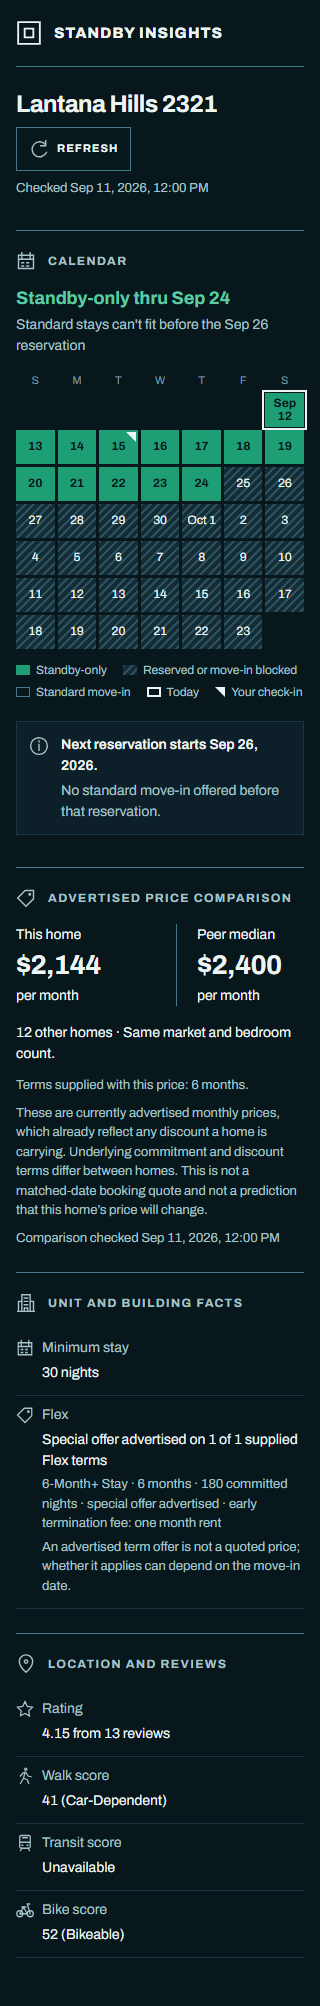
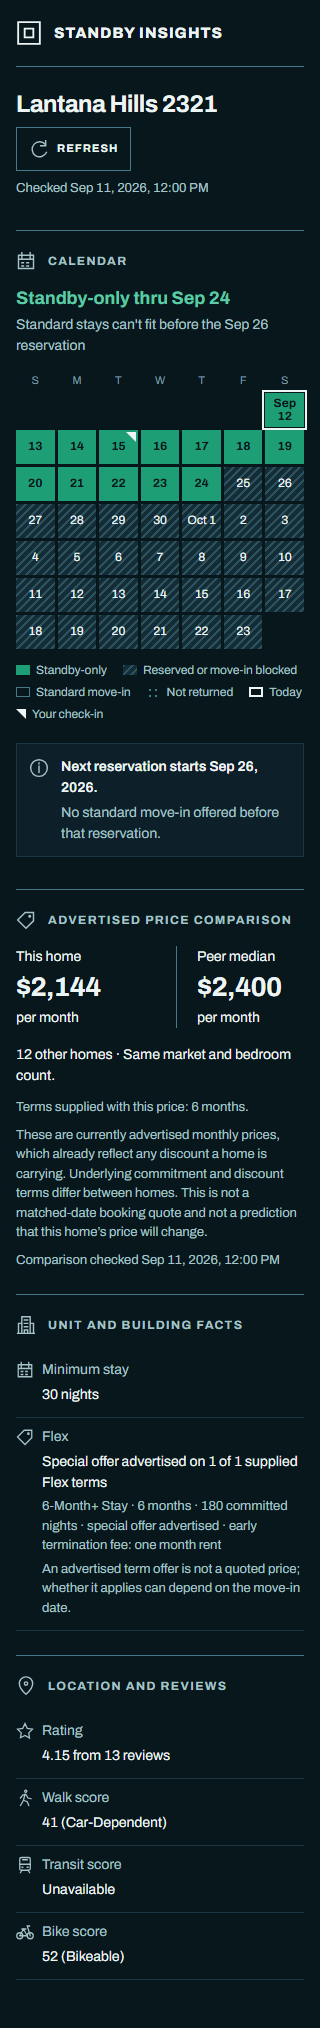
Make missing, stale, and qualified evidence look as uncertain as it is (#31)
* Make missing, stale, and qualified evidence look as uncertain as it is

Not-returned days get a dot texture and a legend key on the panel grid and
card strip instead of reading as ordinary days. Evidence from an older check
says so in the headline on both surfaces, with the card's older-check note
directly under it. The date-disagreement reference note now precedes the
six-week headline and grid it qualifies.

Closes #22

* Keep the headline plain and state an older check under it

The headline prefix read as clutter. The card now states
"Older check · checked {time}" directly under the headline, before the
strip; the panel keeps its check-time label above the calendar.

Refs #22

---------

Changed region(s): [[0.0312, 0.0, 0.9688, 0.989], [0.4375, 0.0309, 0.6562, 0.0618], [0.0625, 0.8036, 0.125, 0.9581]]

diff --git a/src/panel/panel.css b/src/panel/panel.css
@@ -19,6 +19,7 @@
   --standby-only: #1d9e75;
   --standby-only-text: #5dcaa5;
   --hatch: repeating-linear-gradient(135deg, #2c5260 0 2px, var(--ink-3) 2px 6px);
+  --dots: radial-gradient(circle, #2c5260 1px, transparent 1.5px) 0 0 / 6px 6px;
   --space-1: 4px;
   --space-2: 8px;
   --space-3: 12px;
@@ -124,7 +125,8 @@ h2 {
 #calendar-grid [data-kind="standby-only"], .grid-legend [data-kind="standby-only"] { background: var(--standby-only); color: var(--ink); font-weight: 700; }
 #calendar-grid [data-kind="reserved"], #calendar-grid [data-kind="blocked"], .grid-legend [data-kind="reserved"] { background: var(--hatch); color: var(--on); }
 #calendar-grid [data-kind="move-in"], .grid-legend [data-kind="move-in"] { box-shadow: inset 0 0 0 1px var(--rule-strong); }
-#calendar-grid [data-kind="not-returned"] { color: var(--on-3); }
+/* Missing days are drawn as missing, so they never pass for ordinary open ones. */
+#calendar-grid [data-kind="not-returned"], .grid-legend [data-kind="not-returned"] { background: var(--dots); color: var(--on-3); }
 #calendar-grid .today { outline: 2px solid var(--on); outline-offset: 1px; }
 #calendar-grid .check-in { position: relative; }
 #calendar-grid .check-in::after { content: ""; position: absolute; top: 2px; right: 2px; border: 5px solid transparent; border-top-color: var(--on); border-right-color: var(--on); }
@@ -134,6 +136,7 @@ h2 {
 .grid-legend .today-key { outline: 2px solid var(--on); outline-offset: -2px; }
 .grid-legend .check-in-key { border: 5px solid transparent; border-top-color: var(--on); border-right-color: var(--on); width: 0; height: 0; }
 #reference-note { color: var(--on-2); }
+#reference-note:not(:empty) { margin-bottom: var(--space-4); }
 #calendar-status:not(:empty) { margin-bottom: var(--space-3); }
 .summary {
   display: flex;

diff --git a/test/panel-markup.test.js b/test/panel-markup.test.js
@@ -1,0 +1,33 @@
+import { test } from 'node:test';
+import assert from 'node:assert/strict';
+import { readFile } from 'node:fs/promises';
+
+const read = (path) => readFile(new URL(`../${path}`, import.meta.url), 'utf8');
+
+// A rule for a kind whose declarations are only `transparent` or a text colour
+// would leave missing days looking like ordinary ones.
+function declarationsFor(css, selector) {
+  return [...css.replace(/\/\*[\s\S]*?\*\//g, '').matchAll(/([^{}]+)\{([^}]*)\}/g)]
+    .filter(([, selectors]) => selectors.split(',').some((s) => s.trim() === selector))
+    .map(([, , body]) => body)
+    .join(';');
+}
+
+test('the reference note precedes the six-week headline and grid it qualifies', async () => {
+  const html = await read('src/panel/panel.html');
+  assert(html.indexOf('id="reference-note"') < html.indexOf('id="six-weeks"'));
+});
+
+test('the panel legend keys not-returned days', async () => {
+  const html = await read('src/panel/panel.html');
+  assert.match(html, /<li><i data-kind="not-returned"><\/i>Not returned<\/li>/);
+});
+
+test('not-returned days are drawn, not left blank, on both surfaces', async () => {
+  const panel = declarationsFor(await read('src/panel/panel.css'), '#calendar-grid [data-kind="not-returned"]');
+  const card = declarationsFor(await read('src/content/card-annotations.css'), '.standby-strip-segment[data-kind="not-returned"]');
+  for (const body of [panel, card]) {
+    assert.match(body, /background:\s*(?!transparent)\S/, 'a missing day needs its own mark');
+    assert.doesNotMatch(body, /box-shadow/, 'an outline would read as standard move-in');
+  }
+});

diff --git a/test/card-view.test.js b/test/card-view.test.js
@@ -134,7 +134,7 @@ test('retained evidence being rechecked is marked an older check, in words not c
     referenceDate: REFERENCE,
     today: REFERENCE,
   });
-  assert.match(view.noteText, /older check/);
+  assert.match(view.noteText, /older check/i);
 });
 
 // ADR 1: there is always a reference date. A card names it without a
@@ -145,4 +145,19 @@ test('a card whose page and address disagree marks no check-in', () => {
   });
   assert.equal(view.strip.checkInIndex, null);
   assert.equal(view.headlineText, 'No standby-only window detected');
+});
+
+test('an older check leaves the headline plain and names its check time in the note', () => {
+  const calendar = deriveCalendarEvidence(validClosedCalendarHome);
+  const base = {
+    summary: summarizeForReference(calendar.ranges, REFERENCE),
+    referenceDate: REFERENCE,
+    today: REFERENCE,
+  };
+  const evidence = { status: 'ready', identity: 'confirmed', ranges: calendar.ranges, isChecking: false, checkedAt: 1000 };
+  const fresh = describeCard({ ...base, evidence: { ...evidence, isStale: false } });
+  const stale = describeCard({ ...base, evidence: { ...evidence, isStale: true } });
+  assert.equal(stale.headlineText, fresh.headlineText);
+  assert.equal(fresh.noteText, '');
+  assert.match(stale.noteText, /^Older check · checked [A-Z][a-z]{2} \d{1,2}, \d{1,2}:\d{2}\s[AP]M$/);
 });

diff --git a/src/content/card-view.js b/src/content/card-view.js
@@ -1,6 +1,7 @@
 import { sixWeekView, describeStandbyOnly } from '../lib/six-week-view.js';
 
 const dateFormatter = new Intl.DateTimeFormat('en-US', { month: 'short', day: 'numeric', year: 'numeric', timeZone: 'UTC' });
+const checkTimeFormatter = new Intl.DateTimeFormat('en-US', { month: 'short', day: 'numeric', hour: 'numeric', minute: '2-digit' });
 
 function formatDate(isoDate) {
   return dateFormatter.format(new Date(`${isoDate}T00:00:00Z`));
@@ -42,7 +43,13 @@ export function describeCard({ evidence, summary, referenceDate, today, checkIn 
     return { ...view, readable: false };
   }
 
-  if (evidence.isStale) view.noteText = 'Showing an older check';
+  // Sits directly under the headline, so the words and the time of the check
+  // are read before the strip, not after it.
+  if (evidence.isStale) {
+    view.noteText = evidence.checkedAt === null
+      ? 'Older check'
+      : `Older check · checked ${checkTimeFormatter.format(new Date(evidence.checkedAt))}`;
+  }
 
   // Neither of these is a claim about the unit, so they are kept out of the
   // lines that carry one.

diff --git a/test/panel-render.test.js b/test/panel-render.test.js
@@ -253,3 +253,18 @@ test('the grid marks no check-in when the date is only the check date', () => {
   });
   assert.equal(view.grid.cells.some((cell) => cell.isCheckIn), false);
 });
+
+test('an older check leaves the six-week headline plain, and not-returned days are their own kind', () => {
+  const state = {
+    status: 'ready', identity: 'confirmed', unitName: null, checkedAt: 1000, isChecking: false, error: null,
+    today: '2026-09-11', referenceDate: '2026-09-11', checkIn: { status: 'none', date: null },
+    ranges: [{ startDate: '2026-09-11', endDate: '2026-09-20', moveInAllowed: true, isReservation: false, unbookableReason: null }],
+  };
+  const fresh = describeState({ ...state, isStale: false });
+  const stale = describeState({ ...state, isStale: true });
+  assert.equal(stale.standbyOnly.headline, fresh.standbyOnly.headline);
+  assert.match(stale.checkTimeText, /older check/i);
+  const missing = fresh.grid.cells[10];
+  assert.equal(missing.kind, 'not-returned');
+  assert.equal(missing.title, 'Not in the returned calendar');
+});

diff --git a/src/panel/panel.html b/src/panel/panel.html
@@ -26,6 +26,7 @@
     <section id="calendar-section" aria-labelledby="calendar-heading">
       <h2 id="calendar-heading"><svg class="icon" aria-hidden="true"><use href="icons.svg#calendar" /></svg>Calendar</h2>
       <p id="calendar-status" role="status"></p>
+      <p id="reference-note"></p>
       <div id="six-weeks" hidden>
         <p id="standby-only-headline"></p>
         <p id="standby-only-detail"></p>
@@ -35,11 +36,11 @@
           <li><i data-kind="standby-only"></i>Standby-only</li>
           <li><i data-kind="reserved"></i>Reserved or move-in blocked</li>
           <li><i data-kind="move-in"></i>Standard move-in</li>
+          <li><i data-kind="not-returned"></i>Not returned</li>
           <li><i class="today-key"></i>Today</li>
           <li><i class="check-in-key"></i>Your check-in</li>
         </ul>
       </div>
-      <p id="reference-note"></p>
       <div id="calendar-summary" class="summary" hidden>
         <svg class="icon" aria-hidden="true"><use href="icons.svg#info" /></svg>
         <ul id="summary-list"></ul>

diff --git a/src/content/card-annotations.css b/src/content/card-annotations.css
@@ -43,7 +43,7 @@
   forced-color-adjust: none;
 }
 .standby-evidence-line { color: #5d686b; margin-top: 1px; }
-.standby-evidence-note { color: #5d686b; font-style: italic; margin-top: 4px; }
+.standby-evidence-note { color: #5d686b; font-style: italic; margin-top: 1px; }
 
 .standby-strip {
   position: relative;
@@ -80,7 +80,10 @@
   background: repeating-linear-gradient(135deg, #b4bcbe 0 1.5px, #f1f3f3 1.5px 4px);
 }
 .standby-strip-segment[data-kind="move-in"] { box-shadow: inset 0 0 0 1px #8a9598; }
-.standby-strip-segment[data-kind="not-returned"] { background: transparent; }
+/* Missing days are drawn as missing: dotted, not blank and not outlined like move-in. */
+.standby-strip-segment[data-kind="not-returned"] {
+  background: radial-gradient(circle, #8a9598 .8px, transparent 1.2px) 0 0 / 3px 3px;
+}
 .standby-strip-check-in {
   position: absolute;
   top: -6px;

diff --git a/test/card-annotations.test.js b/test/card-annotations.test.js
@@ -324,3 +324,15 @@ test('an href this extension will not treat as a locator is read as unreadable, 
   assert.deepEqual(h.store.reads, [], 'a general listing href triggers no request');
   assert.equal(h.notices().length, 1, 'it contributes to the one notice instead');
 });
+
+test('an older check keeps its note directly under the headline it qualifies', () => {
+  const h = harness();
+  addCard(h.doc, CARD);
+  h.annotator.start();
+  h.store.set(CARD.response.slug, { ...READY, isStale: true });
+
+  const classes = h.annotations()[0].children.map((el) => el.className);
+  assert.equal(classes[classes.indexOf('standby-evidence-headline') + 1], 'standby-evidence-note');
+  const note = h.annotations()[0].children.find((el) => el.className === 'standby-evidence-note');
+  assert.match(note.textContent, /older check/i);
+});

diff --git a/src/content/card-annotations.js b/src/content/card-annotations.js
@@ -96,8 +96,9 @@ export function createCardAnnotator({
     });
 
     // Card order the specification fixes: standby-only headline, its detail,
-    // the six-week strip, then View evidence.
-    container.append(status, headline, detail, strip, scale, note, button);
+    // the six-week strip, then View evidence. An older-check note sits directly
+    // under the headline it qualifies.
+    container.append(status, headline, note, detail, strip, scale, button);
     return { container, status, headline, detail, strip, scale, note, slug };
   }
 

diff --git a/DESIGN.md b/DESIGN.md
@@ -129,7 +129,7 @@ A dark petrol family supports pale blue-gray secondary text and off-white primar
 
 **The Neutral Evidence Rule.** Status is stated in words; icons and color never replace those words or imply a condition rating.
 
-**The Standby-only Exception.** One color carries meaning: standby-only green (`#1d9e75` fill, `#5dcaa5` text) marks nights too short for a standard stay, always beside words that say so. Reservations and blocked days are a quiet hatch (`#2c5260` on `ink-3` in the panel grid), standard move-in is a `rule-strong` outline, and not-returned days are blank.
+**The Standby-only Exception.** One color carries meaning: standby-only green (`#1d9e75` fill, `#5dcaa5` text) marks nights too short for a standard stay, always beside words that say so. Reservations and blocked days are a quiet hatch (`#2c5260` on `ink-3` in the panel grid), standard move-in is a `rule-strong` outline, and not-returned days are a dot texture (`#2c5260` dots in the panel grid, `card-move-in` dots on the card strip), keyed "Not returned" so missing days never read as open. An older check leaves the headline plain: the card states "Older check · checked {time}" directly under it, and the panel's check time says "(showing an older check)".
 
 ## Typography
 

diff --git a/CONTEXT.md b/CONTEXT.md
@@ -51,7 +51,7 @@ bumped. The gap exists only while the reservation after it holds.
 **Six-week view** — the 42 days from today drawn as a strip on each card and a
 weekday grid in the panel. Standby-only is green, reservations and other blocked
 days are hatched, standard move-in is outlined, and a day no range covers is
-left blank as *not returned*. The member's selected check-in is marked; a check
+dotted and keyed as *not returned* — drawn as missing, never left looking open. The member's selected check-in is marked; a check
 date is not. Statements are made from the reference date forward, and "No
 standby-only window detected" requires coverage through the view's last day;
 otherwise the view says the returned calendar doesn't cover it.
